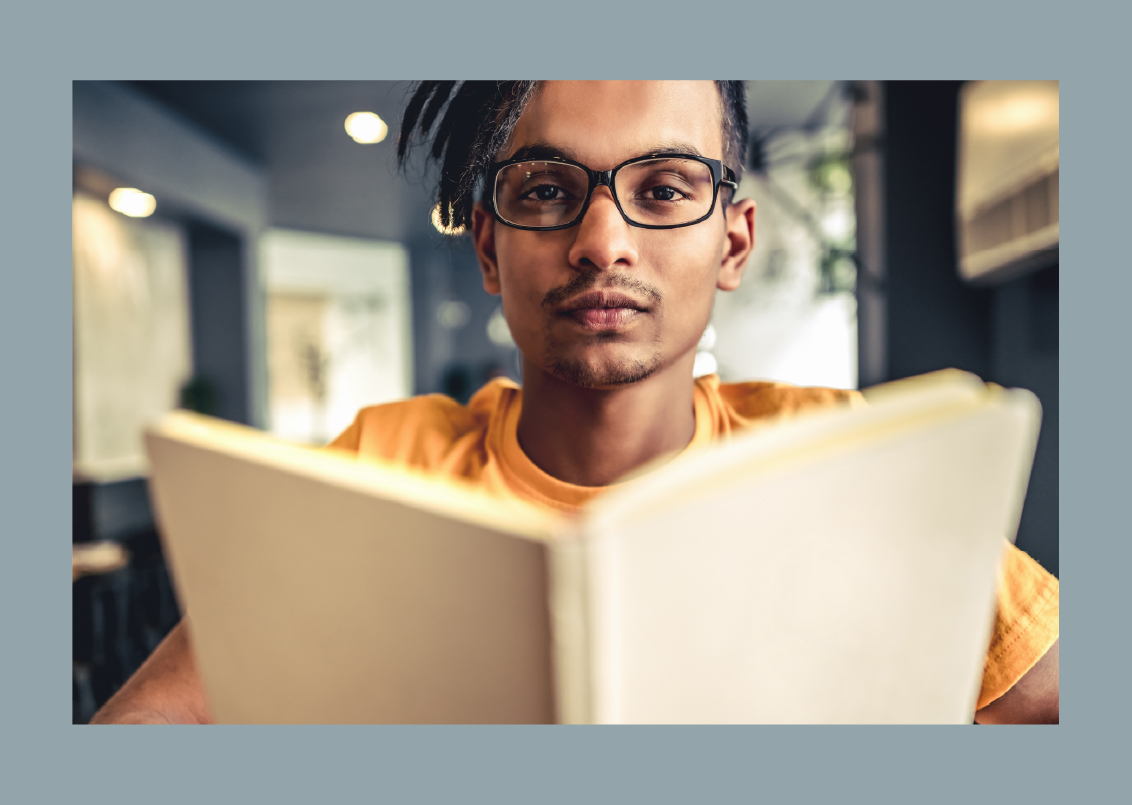
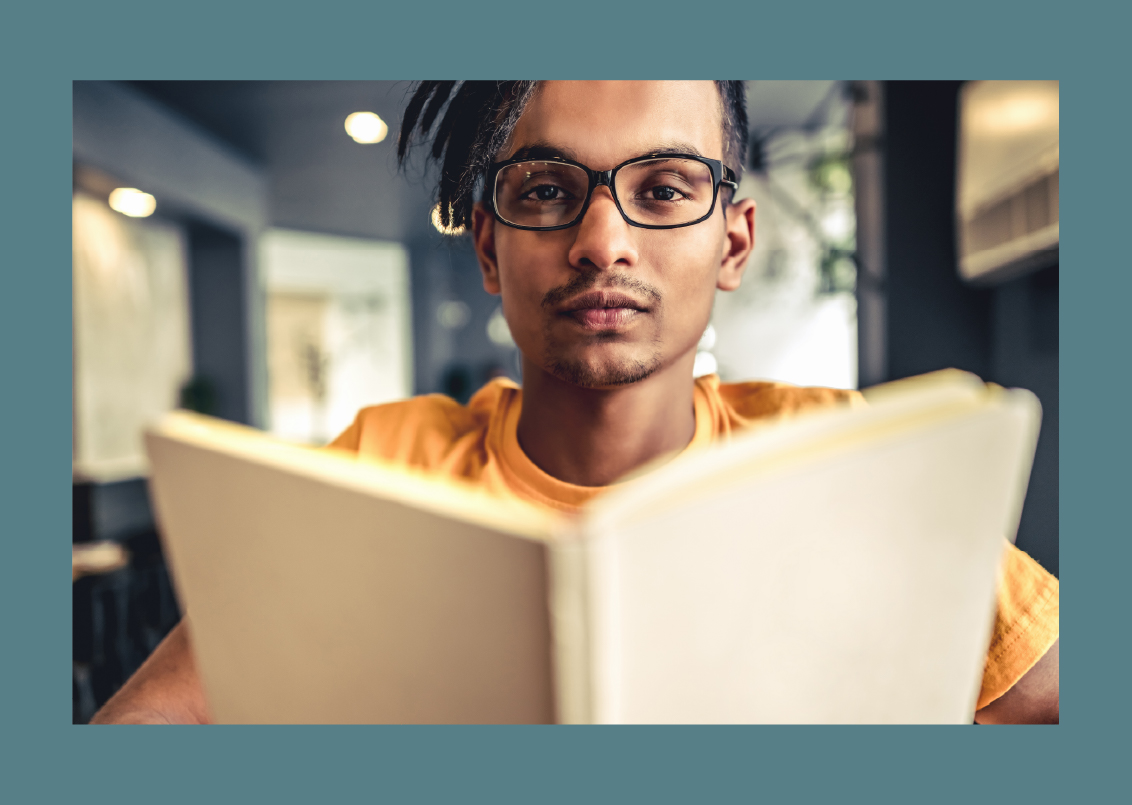
libraryDisplay sections in and other updates

diff --git a/frontend/src/ui/library-details/LibraryDetails.jsx b/frontend/src/ui/library-details/LibraryDetails.jsx
@@ -1,10 +1,10 @@
 import React from "react";
 import Card from 'react-bootstrap/Card';
-import {Col, Container, Image, Row, Stack, Tab, Tabs} from "react-bootstrap";
+import {Button, Col, Container, Image, Row, Stack, Tab, Tabs} from "react-bootstrap";
 import {EventListing} from "../shared/components/EventListing.jsx";
 import {CheckInDisplay} from "../shared/components/CheckInDisplay.jsx";
 import {useDispatch, useSelector} from "react-redux";
-import {useParams} from "react-router-dom";
+import {Link, useParams} from "react-router-dom";
 import {CheckInModal} from "./CheckInModal";
 import {CheckInDetailBlockLibrary} from "./CheckInDetailBlockLibrary";
 import {CheckInDetailBlockProfile} from "../profile-landing/CheckInDetailBlockProfile.jsx";
@@ -15,6 +15,11 @@ import {fetchEventsByLibraryId, fetchEventsByProfileId} from "../../store/events
 import {fetchAllCheckInsForProfileTab, fetchCheckInsByProfileId} from "../../store/checkIn.js";
 import {fetchCurrentUser} from "../../store/currentUser.js";
 import {fetchCheckInsByLibraryId} from "../../store/checkIn.js"
+import libDisImageBlk1 from "../../../images/uiSharedImages/libDisImgBlk1.jpg";
+import libDisImageBlk5 from "../../../images/uiSharedImages/libDisImgBlk2.jpg";
+import libDisImageBlk3 from "../../../images/uiSharedImages/libDisImgBlk4.jpg";
+import libDisSuper from "../../../images/uiSharedImages/libDisSuper.jpg";
+
 
 export function LibraryDetails() {
 
@@ -47,13 +52,20 @@ export function LibraryDetails() {
 
     return (
         <>
+        <Container className={"m-0"} fluid="auto" id={"libDisSectionBlk1"}>
+            <Row className={"m-0"}>
+                <img src={libDisImageBlk1} alt={"libDisImageBlk1"} id={"sectionImageBlk"} className={"img-fluid"}/>
+            </Row>
+        </Container>
+
+
         <div id={"librarySectionDisplay"}>
-        <Card className={""} id={"libraryCardDisplay"}>
-            <Card.Header>{library.libraryAddress}, {library.libraryType} </Card.Header>
+        <Card className={""} id={"libraryCardDisplay"} >
+            <Card.Header><h2>{library.libraryAddress}, {library.libraryType}</h2></Card.Header>
             <Card.Body>
                 {/*Make backend library image connection, code freeze*/}
                 <Image src={'https://placekitten.com/g/200/200'} roundedCircle={true}/>
-                <Card.Title><h3>{library.libraryName}</h3></Card.Title>
+                <Card.Title><h2>{library.libraryName}</h2></Card.Title>
                     {/*<h5>{specialization}</h5>*/}
                 <Card.Text>{library.libraryDescription}</Card.Text>
                 <Row>
@@ -68,12 +80,13 @@ export function LibraryDetails() {
             defaultActiveKey="profile"
             id="library-details-tabs"
             className="mb-3"
+            style={{fontSize: "xx-large"}}
         >
             {/* complete tabs, halted due to freeze */}
             <Tab eventKey="events" title="Events">
                 <Container>
                     <Row>
-                        <h1>TEST - EVENT LISTING - 1</h1>
+                        <h3>TEST - EVENT LISTING - 1</h3>
                         {/*<EventListing />*/}
                     </Row>
                 </Container>
@@ -81,13 +94,46 @@ export function LibraryDetails() {
             <Tab eventKey="check-ins" title="Check-Ins">
                 <Container>
                     <Row>
-                        <h1>TEST - CHECKIN DISPLAY - 1</h1>
+                        <h3>TEST - CHECKIN DISPLAY - 1</h3>
                         {checkins.map (checkin => <CheckInDetailBlockLibrary checkin={checkin}/>)}
                     </Row>
                 </Container>
             </Tab>
         </Tabs>
         </div>
+
+        <Container className={""} fluid="auto">
+            <Row className={"m-0 "} id={"libDisSectionBlk2"}>
+                <Col>
+                    <h1 className={""}>Can Reading Give You Super Powers?</h1>
+                    <p>Empathy, stress relief, and life longevity are just a few things that reading regularly has been credited to do. The benefits of reading have well been documented that it is said that superpowers are gained. Decide for yourself by exploring these articles on the subject.</p>
+
+                    <Stack gap={1}>
+                        <a target="_blank" href={"https://medium.com/@educasic/5-superpowers-you-get-from-reading-c7c35756ac9d"}>Medium.com: 5 superpowers you get from reading</a>
+                        <a target="_blank" href={"https://baos.pub/7-superpowers-that-books-can-grant-you-7cd76279a1a1"}>Baos.pub: 7 Superpowers That Books Can Grant You</a>
+                        <a target="_blank" href={"https://www.healthline.com/health/benefits-of-reading-books"}>Healthline.com: Benefits of Reading Books: How It Can Positively Affect Your Life</a>
+                        <a target="_blank" href={"https://www.realsimple.com/health/preventative-health/benefits-of-reading-real-books"}>RealSimple.com: 8 Science-Backed Reasons to Read a (Real) Book</a>
+                        <a target="_blank" href={"https://www.webmd.com/balance/health-benefits-of-reading-books"}>WebMD.com: Health Benefits of Reading Books</a>
+                    </Stack>
+
+                </Col>
+                <Col>
+                    <img src={libDisSuper} alt={"libDisSuper"} id={"sectionImageBlk"} className={""} style={{width: '30rem'}}/>
+                </Col>
+            </Row>
+        </Container>
+
+        <Container className={"m-0"} fluid="auto" id={"libDisSectionBlk3"}>
+            <Row className={"m-0"}>
+                <img src={libDisImageBlk3} alt={"libDisImageBlk3"} id={"sectionImageBlk"} className={"img-fluid"}/>
+            </Row>
+        </Container>
+
+        <Container className={"m-0"} fluid="auto" id={"libDisSectionBlk5"}>
+            <Row className={"m-0"}>
+                <img src={libDisImageBlk5} alt={"libDisImageBlk5"} id={"sectionImageBlk"} className={"img-fluid"}/>
+            </Row>
+        </Container>
         </>
     )
     }

diff --git a/frontend/src/ui/App.css b/frontend/src/ui/App.css
@@ -111,17 +111,6 @@ body{
 }
 
 
-#libraryCardDisplay {
-    background-color: #93A5AB;
-    text-align: center;
-    color: #2D3024;
-}
-
-#librarySectionDisplay {
-    padding: 2rem;
-    background-color: #93A5AB;
-}
-
 #checkInDisplay {
     background-color: #CDCDC1;
     color: #2D3024;
@@ -238,7 +227,7 @@ body{
 }
 
 #profileSectionBlk1 {
-    background-color: #577F88;
+    background-color: #426A73;
     padding: 2rem;
     margin-bottom: 30px;
     text-align: center;
@@ -329,7 +318,7 @@ body{
 
 
 #librarySectionBlk4 {
-    background-color: #76999D;
+    background-color: #426A73;
     padding: 2rem;
     margin-bottom: 30px;
 }
@@ -344,7 +333,7 @@ body{
 }
 
 #librarySectionBlk5 {
-    background-color: #76999D;
+    background-color: #F3EAD2;
     padding: 2rem;
     margin-bottom: 30px;
     text-align: center;
@@ -353,7 +342,53 @@ body{
     align-items: center;
 }
 #librarySectionBlk2 {
+    background-color: #50573F;
+    padding: 2rem;
+    margin-bottom: 30px;
+}
+
+
+/**** Map PopUp Library Display Section ****/
+
+#libDisSectionBlk1 {
+    background-color: #50573F;
+    padding: 2rem;
+    margin-bottom: 30px;
+}
+
+#libDisSectionBlk3 {
+    background-color: #A9986E;
+    padding: 2rem;
+    margin-bottom: 30px;
+}
+
+#libDisSectionBlk5 {
+    background-color: #426A73;
+    padding: 2rem;
+    margin-bottom: 30px;
+}
+
+#librarySectionDisplay {
+    padding: 2rem;
+    background-color: #CDCDC1;
+}
+#libraryCardDisplay {
+    background-color: #CDCDC1;
+    padding: 2rem;
+    margin-bottom: 30px;
+    text-align: center;
+    color: #2D3024;
+    font-size: x-large;
+    align-items: center;
+   border-radius: 0;
+}
+
+#libDisSectionBlk2 {
     background-color: #F3EAD2;
     padding: 2rem;
     margin-bottom: 30px;
+    text-align: center;
+    color: #2D3024;
+    font-size: x-large;
+    align-items: center;
 }

diff --git a/frontend/src/ui/shared/components/library/LibraryCreateForm.jsx b/frontend/src/ui/shared/components/library/LibraryCreateForm.jsx
@@ -10,7 +10,7 @@ import libraryImageBlk1 from "../../../../../images/uiSharedImages/libraryImgBlk
 import libraryImageBlk2 from "../../../../../images/uiSharedImages/libraryImgBlk2.jpg";
 import libraryLLStock1 from "../../../../../images/uiSharedImages/libraryLLStock1.jpg";
 import libraryImageCouple1 from "../../../../../images/uiSharedImages/libraryCouple1.jpg";
-
+import libraryImageBlk3 from "../../../../../images/uiSharedImages/libraryImgBlk3.jpg";
 
 
 
@@ -252,6 +252,13 @@ function LibraryCreateFormContent (props){
                     <Col>
                         <img src={libraryLLStock1} alt={"libraryLLStock"} id={"sectionImageBlk"} className={""} style={{width: '20rem'}}/>
                     </Col>
+                </Row>
+            </Container>
+
+
+            <Container className={"m-0"} fluid="auto" id={"librarySectionBlk4"}>
+                <Row className={"m-0"}>
+                    <img src={libraryImageBlk3} alt={"libraryImage3"} id={"sectionImageBlk"} className={"img-fluid"}/>
                 </Row>
             </Container>
 

diff --git a/frontend/src/ui/home/Home.jsx b/frontend/src/ui/home/Home.jsx
@@ -109,7 +109,7 @@ export function Home() {
 				<Row className={"m-0 "} id={"homeSectionBlk2"}>
 					<Col>
 						<h1 className={""}>Our Mission</h1>
-						<p>“Our Mission is to foster a social environment around literacy. Through the Little Library Locator, we aim to promote different interests around reading and highlight the unique personalities of the creators of Little Libraries around the world.” </p>
+						<p>“Our Mission is to foster a social environment around literacy. Through the Little Library Locator, we aim to promote different interests around reading and highlight the unique personalities of the creators of Little Libraries around the world.”</p>
 
 						<h2>Join the project.</h2>
 						<p style={{fontSize: "large"}}>Sign Up and Register Your Little Library</p>

diff --git a/frontend/src/ui/profile-landing/ProfileLanding.jsx b/frontend/src/ui/profile-landing/ProfileLanding.jsx
@@ -105,6 +105,7 @@ export function ProfileLanding() {
                     defaultActiveKey="profile"
                     id="library-details-tabs"
                     className="mb-3"
+                    style={{fontSize: "xx-large"}}
                 >
                     <Tab eventKey="event" title="Events">
                         <Container>
